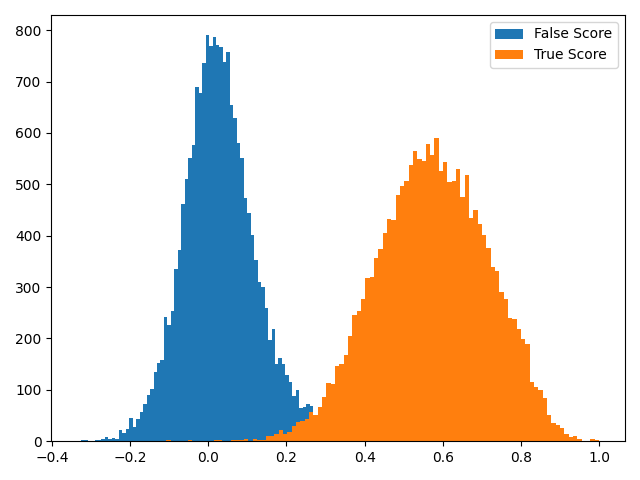
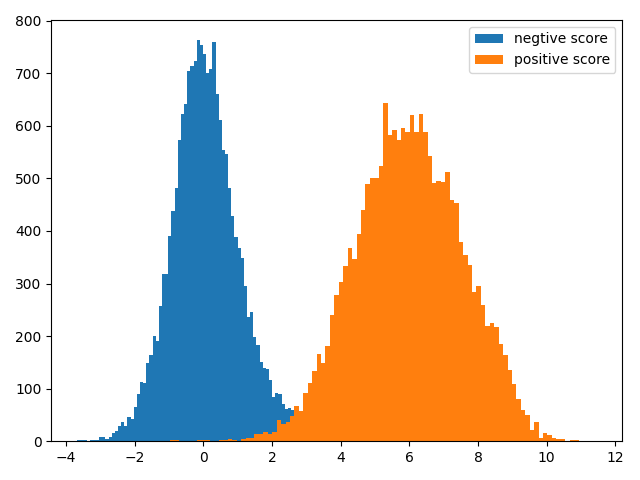
update

diff --git a/tools/asnorm_evaluate.py b/tools/asnorm_evaluate.py
@@ -30,10 +30,12 @@ if __name__ == "__main__":
     parser.add_argument('--cohort_path', type=str, 
             help='a cohort with N speakers which is different from the enroll and tes', default=None)
     parser.add_argument('--score_save_path', type=str, help='trial file path', default=None)
+    parser.add_argument('--top_n', type=int, help='trial file path', default=300)
 
     args = parser.parse_args()
     load_config(cfg, args.config)
     cfg.trainer.gpus = 1
+    cfg.score_save_path = args.score_save_path
     if args.checkpoint_path is not None:
         cfg.checkpoint_path = args.checkpoint_path
     if args.trial_path is not None:
@@ -90,9 +92,10 @@ if __name__ == "__main__":
             scores = embedding.dot(cohort_embeddings.T)
             denoms = np.linalg.norm(embedding) * np.linalg.norm(cohort_embeddings, axis=1)
             scores = scores / denoms
+            scores = np.sort(scores)
             val.append(embedding)
-            val.append(np.mean(scores))
-            val.append(np.std(scores))
+            val.append(np.mean(scores[-args.top_n:]))
+            val.append(np.std(scores[-args.top_n:]))
             table[audio_label[0]] = val
 
     scores = []

diff --git a/scripts/make_cohort_set.py b/scripts/make_cohort_set.py
@@ -9,3 +9,13 @@ if __name__ == "__main__":
     parser.add_argument('--num_cohort', type=int, default=3000)
     args = parser.parse_args()
 
+    data = pd.read_csv(args.data_list_path)
+    utt_paths = data["utt_paths"].values
+    np.random.shuffle(utt_paths)
+    utt_paths = utt_paths[:args.num_cohort]
+    with open(args.cohort_save_path, "w") as f:
+        for item in utt_paths:
+            f.write(item)
+            f.write("\n")
+
+

diff --git a/scripts/compute_eer.py b/scripts/compute_eer.py
@@ -35,8 +35,8 @@ if __name__ == "__main__":
             else:
                 true_score.append(scores[i])
 
-        plt.hist(false_score, bins=100, label="False Score")
-        plt.hist(true_score, bins=100, label="True Score")
+        plt.hist(false_score, bins=100, label="negtive score")
+        plt.hist(true_score, bins=100, label="positive score")
 
         plt.legend()
         plt.tight_layout()
